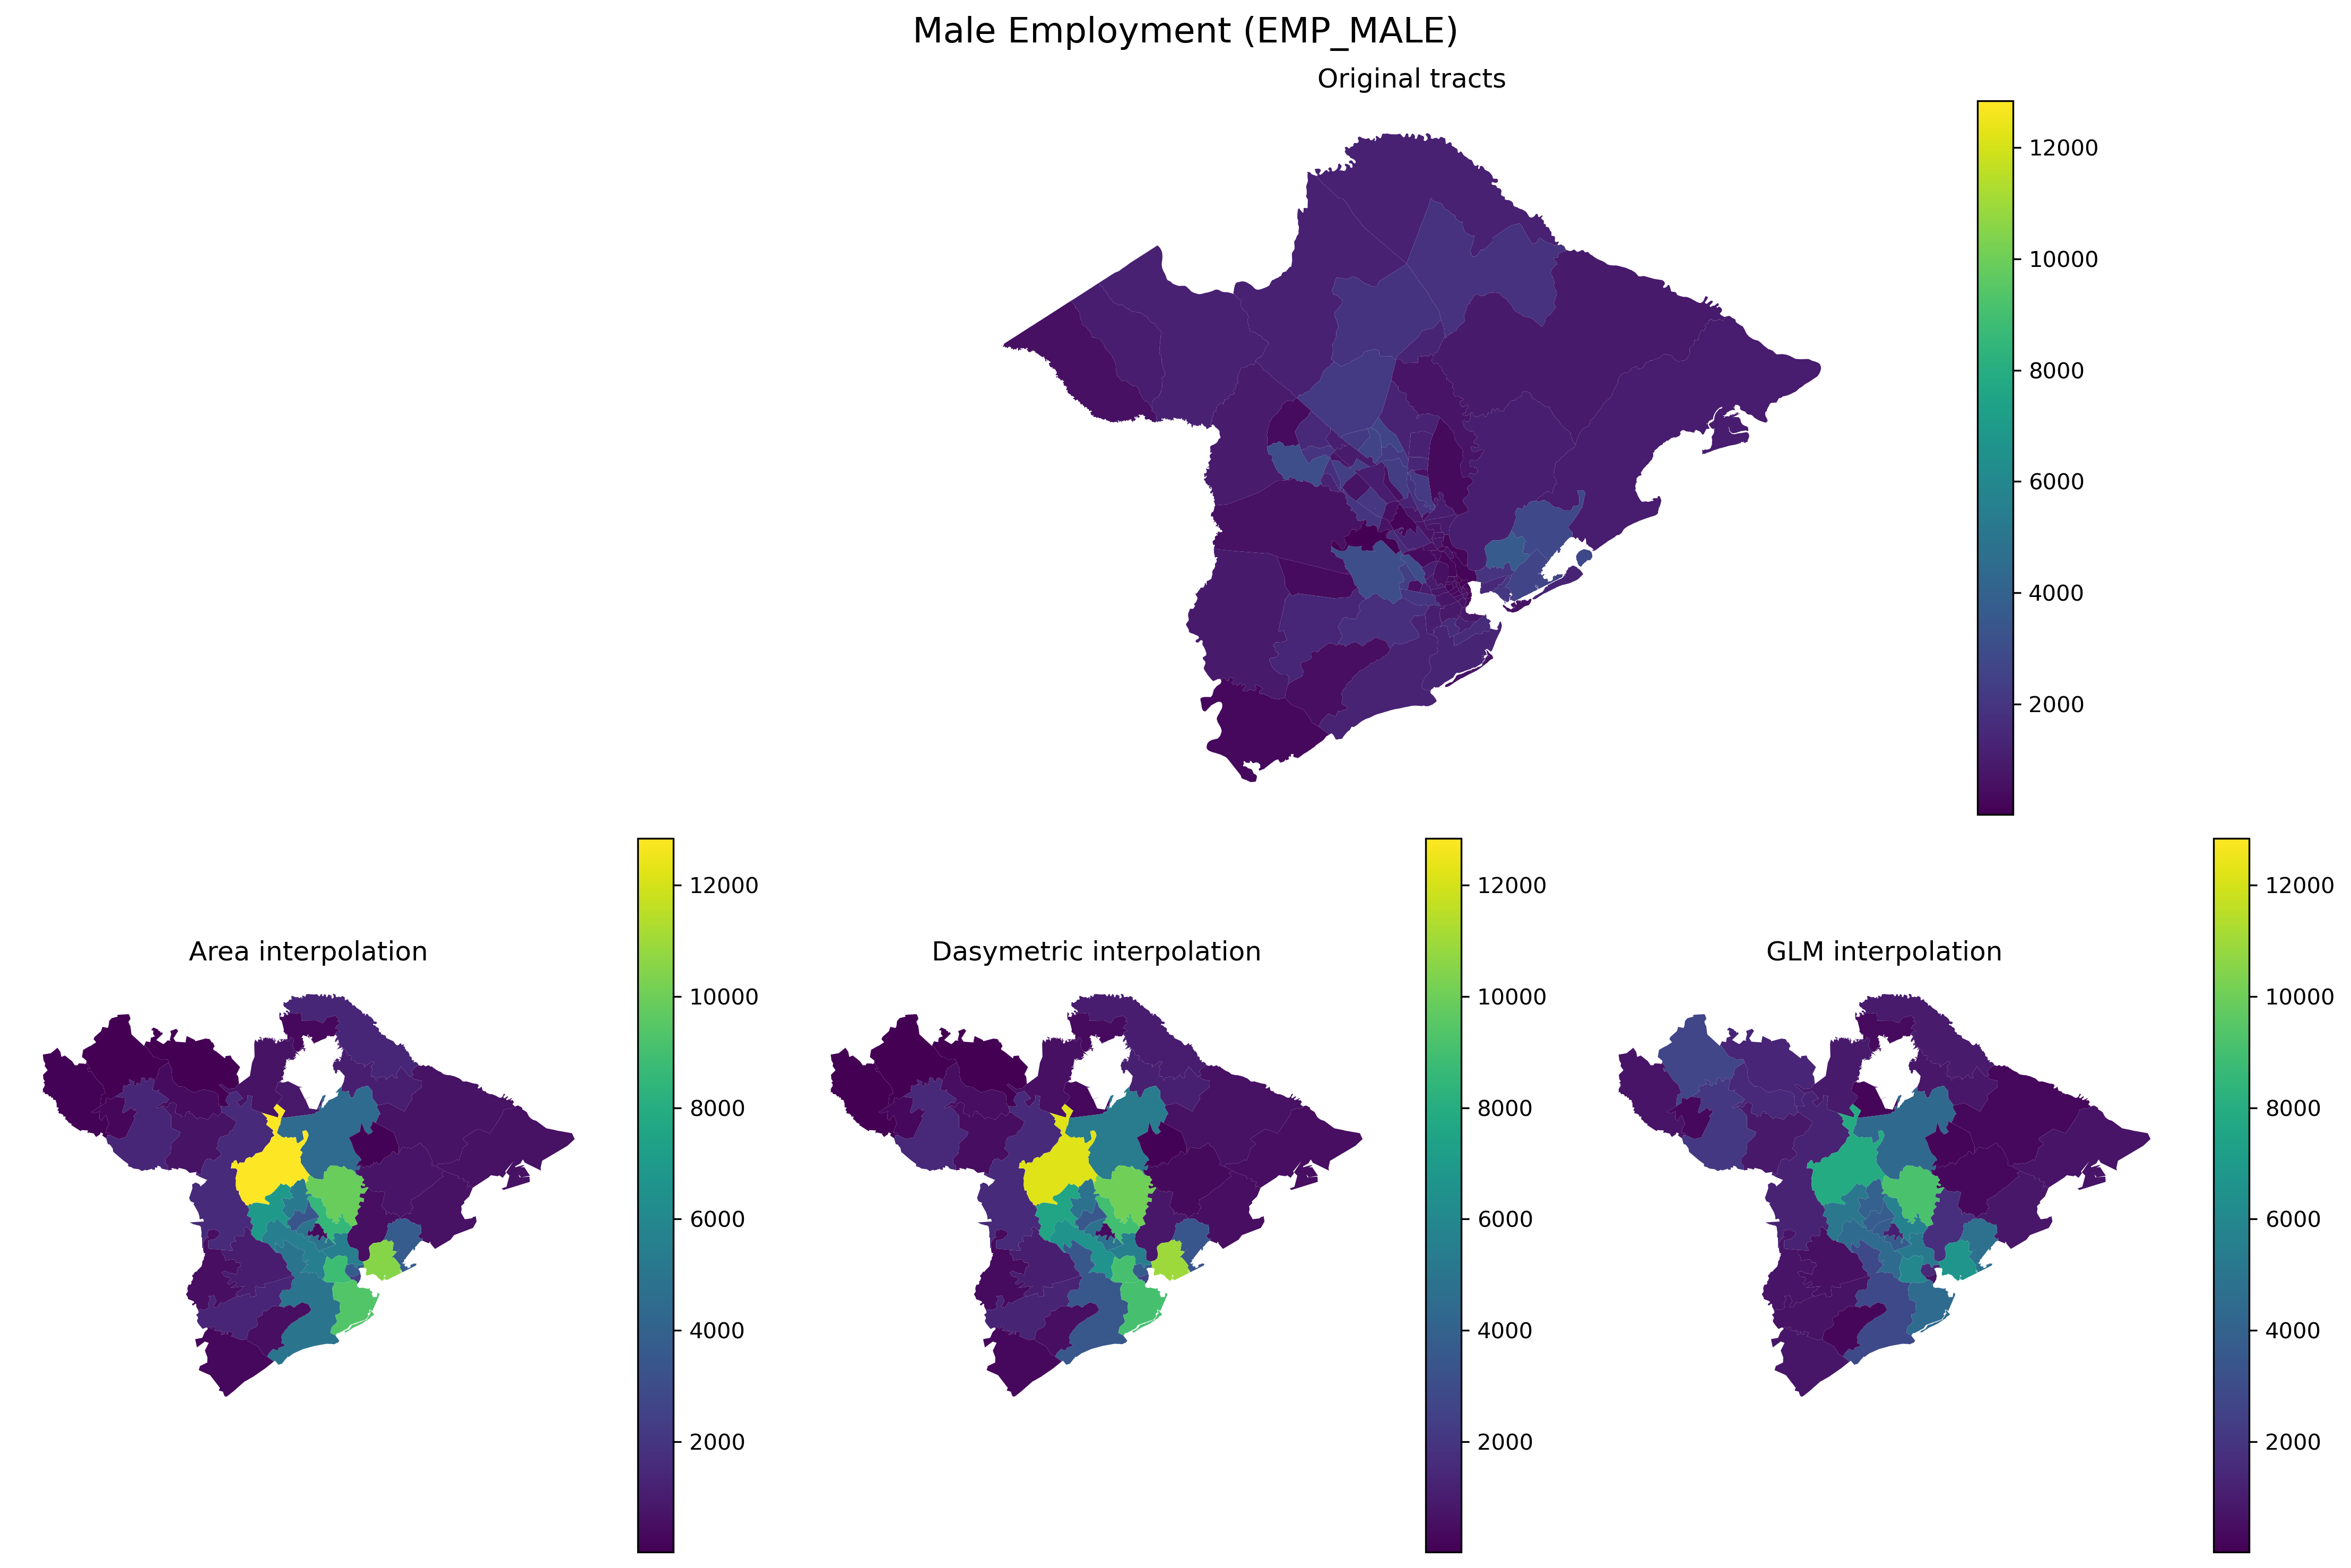
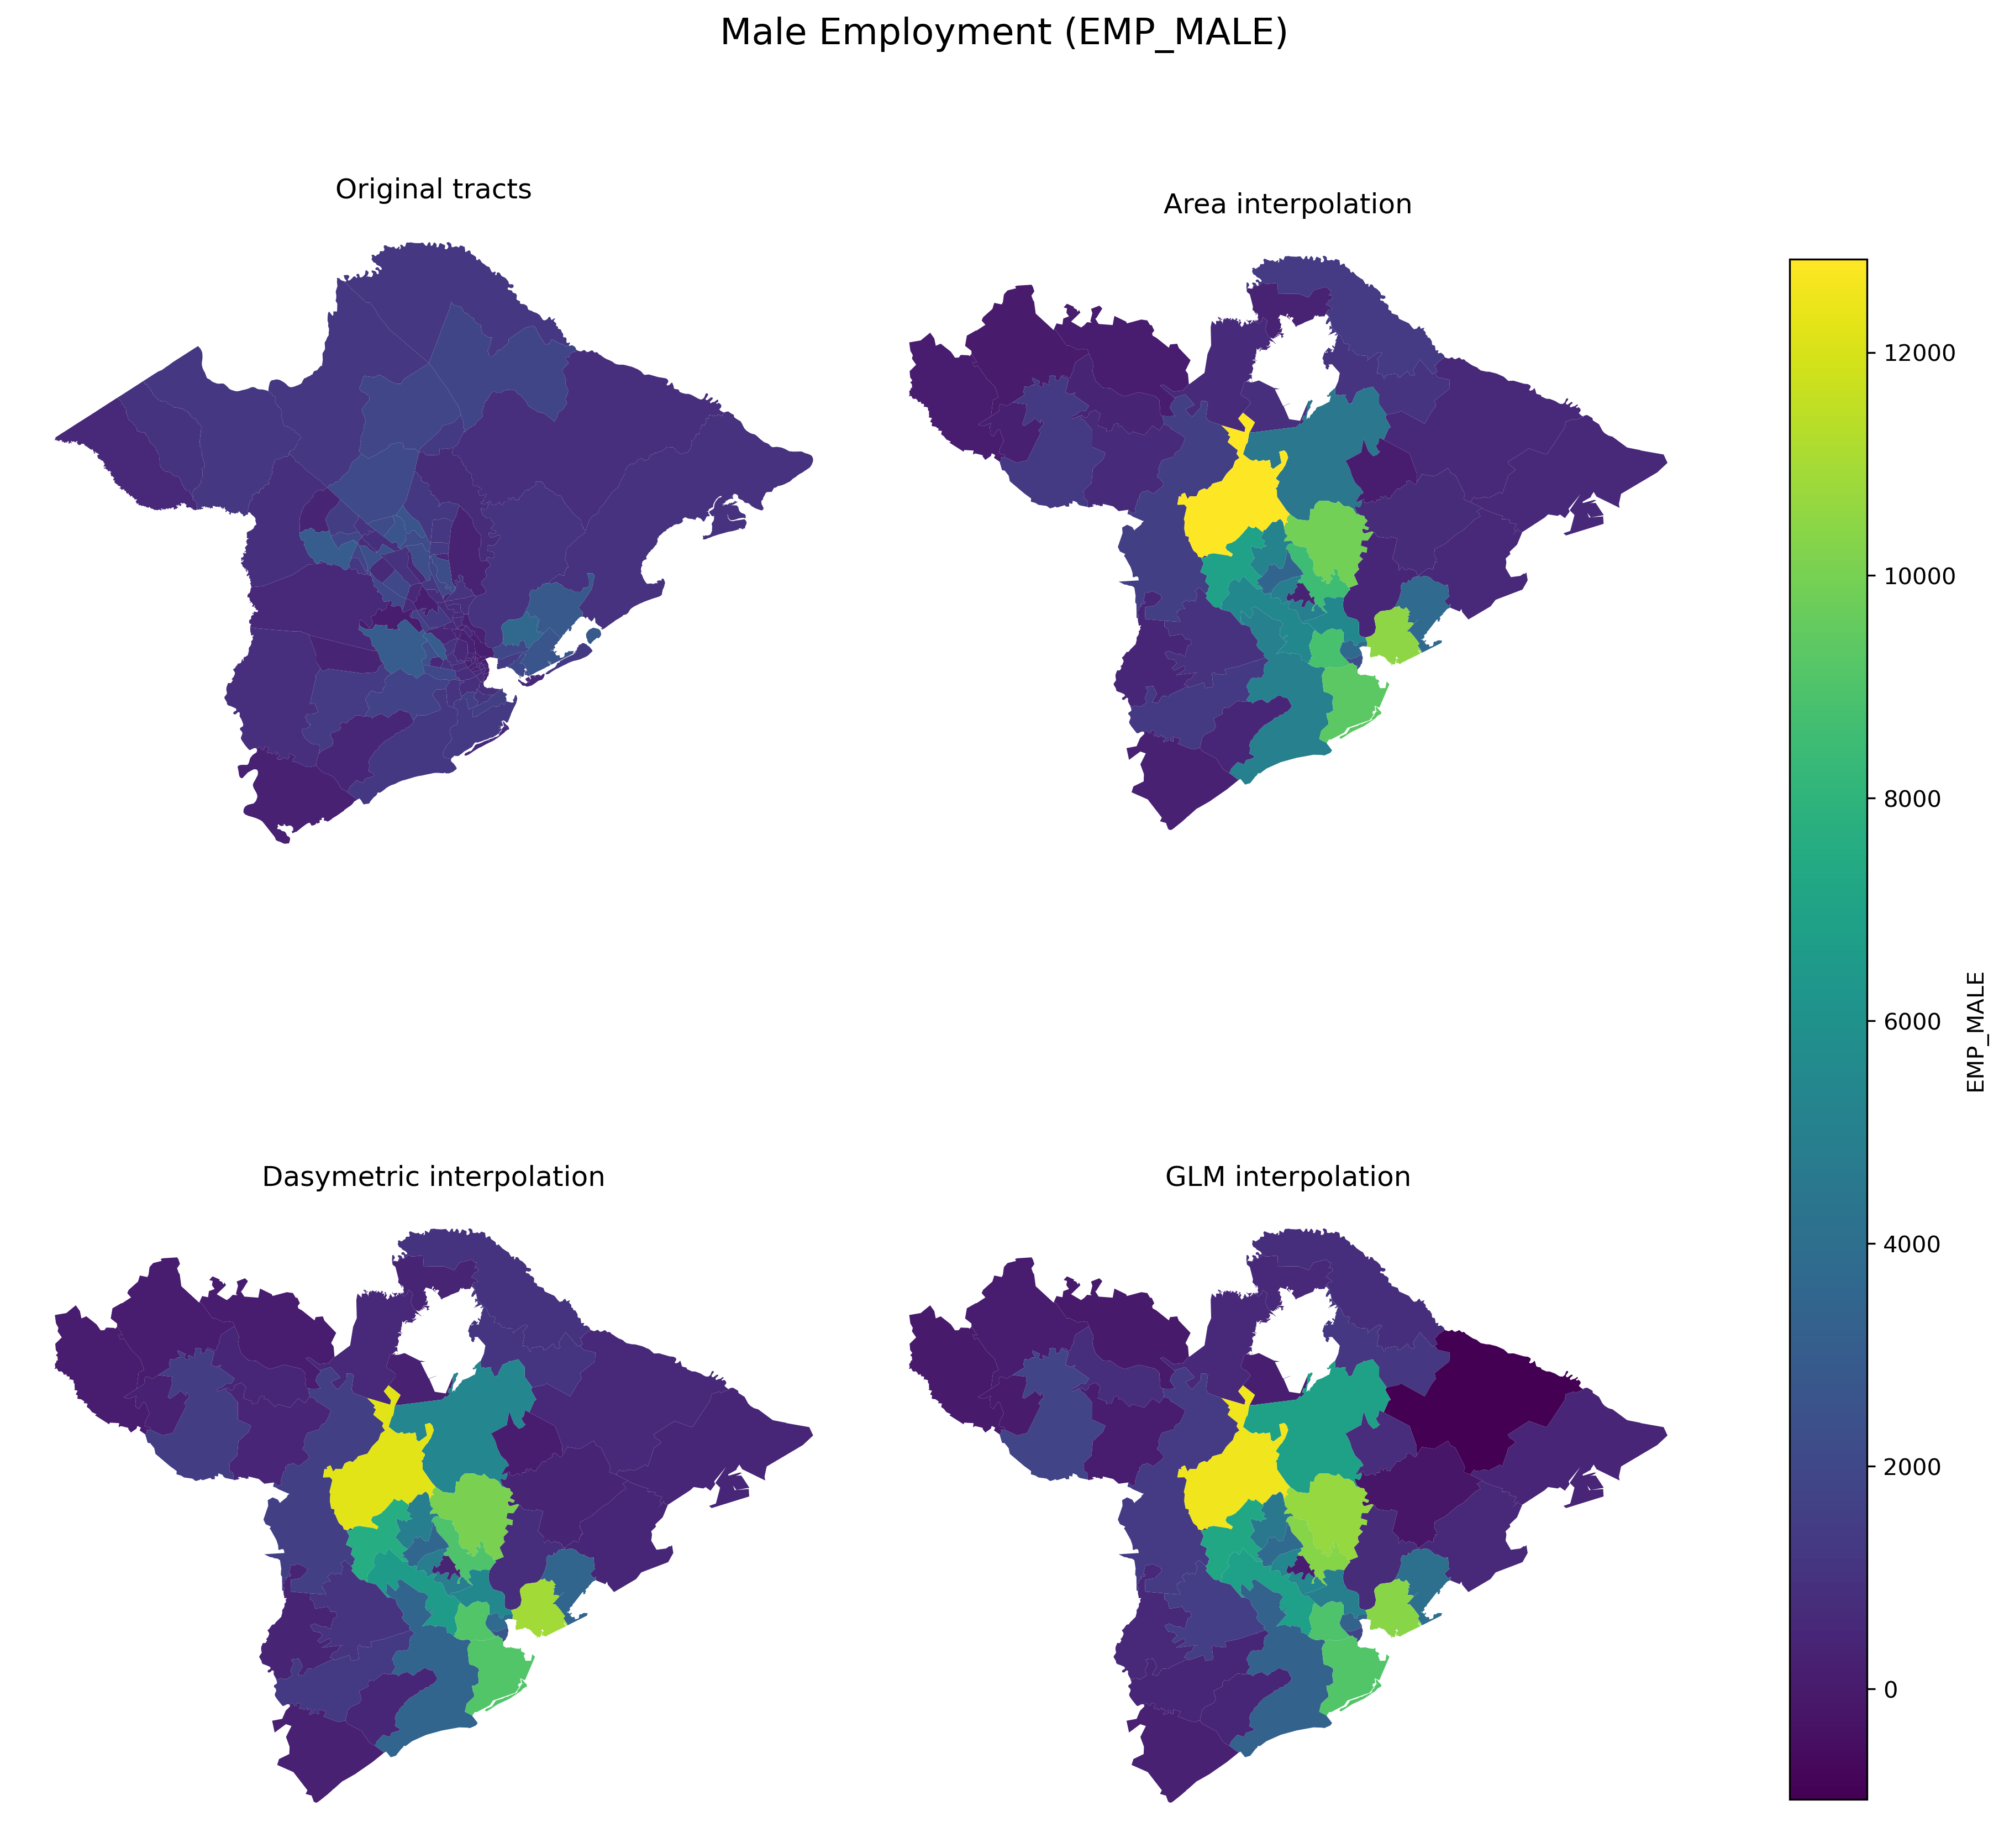
Merge pull request #282 from renanxcortes/fix-277
Refactor GLM and ensure pycnophylactic property

Pull request: Refactor GLM and ensure pycnophylactic property
Hello, everyone.

I have been working intensively on this over the past week and was able to refine both the framework and the estimates for the GLM approach mentioned in https://github.com/pysal/tobler/issues/277. This approach is directly connected to [Reibel (2007)](https://www.researchgate.net/publication/5153750_Areal_Interpolation_of_Population_Counts_Using_Pre-Classified_Land_Cover_Data), which is inspired by [Flowerdew and Green (1989, 1992)](https://link.springer.com/article/10.1007/BF01581481).

The current PR:

- Harmonizes the framework using `extract_raster_features` and spatial interpolations/overlays.
- Ensures the pycnophylactic property.
- Removes the `_fast_append_profile_in_gdf` function.
- Aligns the parameter name `pixel_values` with the dasymetric approach.

I also carried out several sanity checks, and everything appears to be working properly and performatic. As expected, the estimates from the GLM approach differ slightly from those of the dasymetric approach (which can be interpreted as a particular case of a GLM with uniform weights). Even so, the overall population totals remain very similar.

Below are the updated maps comparing all tobler approaches under the pycnophylactic property and the overall sums (I can update the paper graph if we merge this PR):

<img width="918" height="616" alt="image" src="https://github.com/user-attachments/assets/22c0e600-303f-4429-a721-5badd76ae8cb" />
[…]

diff --git a/tobler/model/glm.py b/tobler/model/glm.py
@@ -1,11 +1,14 @@
 """Model-based methods for areal interpolation."""
 
+import warnings
+
+import geopandas as gpd
 import numpy as np  # noqa: F401 -- needed for numpy's logarithm in the formula string
 import statsmodels.formula.api as smf
-from statsmodels.genmod.families import Gaussian, NegativeBinomial, Poisson
+from statsmodels.genmod.families import NegativeBinomial, Poisson
 
-from ..dasymetric import _fast_append_profile_in_gdf
-from ..util.util import _check_presence_of_crs
+from ..dasymetric import extract_raster_features
+from ..util.util import _check_presence_of_crs, _rename_type
 
 __all__ = ["glm"]
 
@@ -14,12 +17,14 @@ def glm(
     source_df=None,
     target_df=None,
     raster="nlcd_2011",
-    raster_codes=None,
-    variable=None,
+    pixel_values=None,
+    extensive_variable=None,
     formula=None,
     likelihood="poisson",
-    force_crs_match=True,
     return_model=False,
+    nodata=255,
+    n_jobs=-1,
+    force_crs_match=None,
 ):
     """Train a generalized linear model to predict polygon attributes
     based on the collection of pixel values they contain.
@@ -36,24 +41,32 @@ def glm(
         path to raster file that will be used to input data to the regression model.
         i.e. a coefficients refer to the relationship between pixel
         counts and population counts. Defaults to 2011 NLCD
-    raster_codes : list, required (default =[21, 22, 23, 24, 41, 42, 52])
+    pixel_values : list, required (default =[21, 22, 23, 24, 41, 42, 52])
         list of integers that represent different types of raster cells. If no formula
         is given, the model will be fit from a linear combination of the logged count
         of each cell type listed here. Defaults to [21, 22, 23, 24, 41, 42, 52] which
         are informative land type cells from the NLCD
-    variable : str, required
-        name of the variable (column) to be modeled from the `source_df`
+    extensive_variable : str, required
+        name of the variable (column) to be modeled from the `source_df`.
+        Currently, only one extensive variable is available.
     formula : str, optional
         patsy-style model formula that specifies the model. Raster codes should be
         prefixed with "Type_", e.g.
-        `"n_total_pop ~ -1 + np.log1p(Type_21) + np.log1p(Type_22)`
-    likelihood : str, {'poisson', 'gaussian', 'neg_binomial'} (default = "poisson")
+        `"n_total_pop ~ -1 + Type_21 + Type_22`
+    likelihood : str, {'poisson', 'neg_binomial'} (default = "poisson")
         the likelihood function used in the model
-    force_crs_match : bool
-        whether to coerce geodataframe and raster to the same CRS
     return model : bool
         whether to return the fitted model in addition to the interpolated geodataframe.
         If true, this will return (geodataframe, model)
+    nodata : int
+        value in raster that indicates null or missing values. Default is 255
+    n_jobs : int
+        [Optional. Default=-1] Number of processes to run in parallel to
+        generate the area allocation. If -1, this is set to the number of CPUs
+        available.
+    force_crs_match : None
+        whether to coerce geodataframe and raster to the same CRS
+        -- Scheduled for removal -- no longer used.
 
     Returns
     --------
@@ -61,40 +74,156 @@ def glm(
         a new geopandas dataframe with boundaries from `target_df` and modeled
         attribute data from the `source_df`. If `return_model` is true, the
         function will also return the fitted regression model for further diagnostics
+        The new geopandas will present a column named given by extensive_variable
     """
+
+    if force_crs_match is not None:
+        warnings.warn(
+            (
+                "The 'force_crs_match' is not longer used in 'glm()'"
+                "and will be removed in a future release."
+            ),
+            UserWarning,
+            stacklevel=2,
+        )
+
     source_df = source_df.copy()
     target_df = target_df.copy()
     _check_presence_of_crs(source_df)
-    liks = {"poisson": Poisson, "gaussian": Gaussian, "neg_binomial": NegativeBinomial}
+    liks = {"poisson": Poisson, "neg_binomial": NegativeBinomial}
 
     if likelihood not in liks:
         raise ValueError(f"likelihood must one of {liks.keys()}")
 
-    if not raster_codes:
-        raster_codes = [21, 22, 23, 24, 41, 42, 52]
-    raster_codes = ["Type_" + str(i) for i in raster_codes]
+    if not pixel_values:
+        pixel_values = [21, 22, 23, 24, 41, 42, 52]
+    pixel_values_str = ["Type_" + str(i) for i in pixel_values]
 
     if not formula:
-        formula = (
-            variable
-            + "~ -1 +"
-            + "+".join(["np.log1p(" + code + ")" for code in raster_codes])
+        formula = extensive_variable + "~ -1 +" + " + ".join(list(pixel_values_str))
+
+    #  create a vector mask from the raster data
+    # Pass collapse_values=False to obtain each pixel type
+    raster_mask = extract_raster_features(
+        source_df, raster, pixel_values, nodata, n_jobs, collapse_values=False
+    )
+
+    raster_mask = raster_mask.to_crs(source_df.crs)
+
+    raster_mask = raster_mask.copy()
+
+    source_df["source_id"] = source_df.index
+    target_df["target_id"] = target_df.index
+    raster_mask["mask_id"] = raster_mask.index
+
+    # Intersect the two layers (source + raster)
+    source_intersections = gpd.overlay(
+        raster_mask[["mask_id", "value", "geometry"]],
+        source_df[["source_id", "geometry"]],
+        how="intersection",
+    )
+
+    # Since each intersection is only comprised of a single value,
+    # The logic will be adjusted to the area (instead of counts)
+    # of each pixel type
+
+    # Area of intersected pieces of each category fall in each source polygon
+
+    source_intersections["area"] = source_intersections.geometry.area
+
+    area_by_source_id_values = (
+        source_intersections.groupby(["source_id", "value"])["area"]
+        .sum()
+        .unstack(fill_value=0)
+        .reset_index()
+    )
+
+    source_result = source_df.merge(
+        area_by_source_id_values, on="source_id", how="left"
+    ).fillna(0)
+    source_result = _rename_type(source_result)
+    results_regression = smf.glm(
+        formula, data=source_result, family=liks[likelihood]()
+    ).fit()
+
+    # Extract the log from predict to get the weights sums
+    # "raw" is because this prediction is only generated through the regression
+    # (that is, without enforcing pycnophylactic property)
+    source_result["pred_variable_on_source_id_raw"] = np.log(
+        results_regression.predict(source_result.fillna(0))
+    )
+
+    # Append source predictions and original
+    # variable for the pycnophylactic property step
+    source_intersections_2 = source_intersections.merge(
+        source_result[
+            ["source_id", extensive_variable, "pred_variable_on_source_id_raw"]
+        ],
+        on="source_id",
+        how="left",
+    ).fillna(0)
+
+    # Match each pixel to its corresponding weight
+    coefs = results_regression.params
+    type_coefs = coefs[coefs.index.str.match(r"^Type_\d+$")]
+    mapping = {  # build mapping: 21 -> coef(Type_21), 22 -> coef(Type_22), ...
+        int(name.split("_", 1)[1]): coef for name, coef in type_coefs.items()
+    }
+
+    # add coefficient as a new column
+    source_intersections_2["type_coef"] = source_intersections_2["value"].map(mapping)
+
+    # Ensure pycnophylactic property
+    source_intersections_2["pred_variable_on_pixel"] = source_intersections_2[
+        "type_coef"
+    ] * (
+        source_intersections_2[extensive_variable]
+        / source_intersections_2["pred_variable_on_source_id_raw"]
+    )
+
+    # Predictions should be adjusted by area instead of pixels (appends "_wa")
+    # "wa" stands for weighted area
+    source_intersections_2["area"] = source_intersections_2.geometry.area
+    source_intersections_2["pred_variable_on_pixel_wa"] = (
+        source_intersections_2["pred_variable_on_pixel"]
+        * source_intersections_2["area"]
+    )
+
+    # Intersect the two layers (target + raster)
+    target_intersections = (
+        gpd.overlay(
+            raster_mask[["mask_id", "geometry"]],
+            target_df[["target_id", "geometry"]],
+            how="intersection",
         )
+        .dissolve("mask_id")
+        .reset_index()
+    )  # Dissolve here is only to get unique mask_ids
 
-    profiled_df = _fast_append_profile_in_gdf(
-        source_df[[source_df.geometry.name, variable]], raster, force_crs_match
+    # Recover pixel estimated population for each mask id within every target id
+    # Use the weighted variable!
+    target_intersections_2 = target_intersections.merge(
+        source_intersections_2[["mask_id", "pred_variable_on_pixel_wa"]],
+        on="mask_id",
+        how="inner",
     )
 
-    results = smf.glm(formula, data=profiled_df, family=liks[likelihood]()).fit()
+    # Sum the weights for each target polygon to get the
+    # estimated population with pycnophylactic property
+    # Use the weighted variable!
+    sum_by_target = target_intersections_2.groupby("target_id", as_index=False)[
+        "pred_variable_on_pixel_wa"
+    ].sum()
 
-    out = target_df[[target_df.geometry.name]]
-    temp = _fast_append_profile_in_gdf(
-        out[[out.geometry.name]], raster, force_crs_match
+    # Append these estimates into the original target geopandas
+    interpolated = target_df.merge(sum_by_target, on="target_id", how="inner").rename(
+        columns={"pred_variable_on_pixel_wa": extensive_variable}
     )
 
-    out[variable] = results.predict(temp.drop(columns=[temp.geometry.name]).fillna(0))
+    # Return only relevant columns
+    interpolated = interpolated[["geometry", extensive_variable]]
 
     if return_model:
-        return out, results
+        return interpolated, results_regression
 
-    return out
+    return interpolated

diff --git a/tobler/dasymetric/raster_tools.py b/tobler/dasymetric/raster_tools.py
@@ -2,19 +2,15 @@
 
 import ast
 import multiprocessing
-import warnings
 
 import geopandas as gpd
 import numpy as np
 import pandas as pd
 import rasterio as rio
-import rasterstats as rs
 from joblib import Parallel, delayed
 from rasterio import features
 from rasterio.mask import mask
 from shapely.geometry import shape
-
-from ..util.util import _check_presence_of_crs
 
 __all__ = ["extract_raster_features"]
 
@@ -32,50 +28,6 @@ def _parse_geom(geom_str):
 
 def _apply_parser(df):
     return df.apply(_parse_geom)
-
-
-def _fast_append_profile_in_gdf(geodataframe, raster_path, force_crs_match=True):
-    """Append categorical zonal statistics (counts by pixel type)
-    as columns to an input geodataframe.
-
-    Parameters
-    ----------
-    geodataframe : geopandas.GeoDataFrame
-        geodataframe that has overlay with the raster. If some polygon do
-        not overlay the raster, consider a preprocessing step using the function
-        subset_gdf_polygons_from_raster.
-    raster_path : str
-        path to the raster image.
-    force_crs_match : bool, Default is True.
-        Whether the Coordinate Reference System (CRS) of the polygon will be reprojected
-        to the CRS of the raster file. It is recommended to let this argument as True.
-
-    Notes
-    -----
-    The generated geodataframe will input the value 0 for each Type that
-    is not present in the raster for each polygon.
-    """
-
-    _check_presence_of_crs(geodataframe)
-    if force_crs_match:
-        with rio.open(raster_path) as raster:
-            geodataframe = geodataframe.to_crs(crs=raster.crs.data)
-    else:
-        warnings.warn(
-            "The GeoDataFrame is not being reprojected. "
-            "The clipping might be being performing on "
-            "unmatching polygon to the raster.",
-            UserWarning,
-            stacklevel=2,
-        )
-
-    zonal_gjson = rs.zonal_stats(
-        geodataframe, raster_path, prefix="Type_", geojson_out=True, categorical=True
-    )
-
-    zonal_ppt_gdf = gpd.GeoDataFrame.from_features(zonal_gjson)
-
-    return zonal_ppt_gdf
 
 
 def extract_raster_features(

diff --git a/tobler/tests/test_model.py b/tobler/tests/test_model.py
@@ -1,8 +1,6 @@
 """test interpolation functions."""
 
-import pytest
 import rasterio
-from rasterstats.io import NodataWarning
 
 from tobler.model import glm
 
@@ -10,14 +8,10 @@ from tobler.model import glm
 def test_glm_poisson(datasets):
     with rasterio.Env(AWS_NO_SIGN_REQUEST="YES"):
         sac1, sac2 = datasets
-        with pytest.warns(
-            NodataWarning,
-            match="Setting nodata to -999; specify nodata explicitly",
-        ):
-            glm_poisson = glm(
-                source_df=sac2,
-                target_df=sac1,
-                variable="POP2001",
-                raster="s3://spatial-ucr/nlcd/landcover/nlcd_landcover_2011.tif",
-            )
+        glm_poisson = glm(
+            source_df=sac2,
+            target_df=sac1,
+            extensive_variable="POP2001",
+            raster="s3://spatial-ucr/nlcd/landcover/nlcd_landcover_2011.tif",
+        )
     assert glm_poisson.POP2001.sum() > 1469000

diff --git a/tobler/util/util.py b/tobler/util/util.py
@@ -270,3 +270,18 @@ def _to_hex(source, resolution=6, return_geoms=True):
     )
 
     return hexs
+
+
+# Functions that appends a "Type_" suffix on any column
+# that has a number as variable name
+def _rename_type(df):
+    res = df.rename(
+        columns=lambda col: (
+            f"Type_{int(pandas.to_numeric(col))}"
+            if not isinstance(col, bool)
+            and pandas.notna(pandas.to_numeric(col, errors="coerce"))
+            and float(pandas.to_numeric(col)).is_integer()
+            else col
+        )
+    )
+    return res

diff --git a/tobler/dasymetric/__init__.py b/tobler/dasymetric/__init__.py
@@ -1,5 +1,5 @@
 from .masked_area_interpolate import masked_area_interpolate, masked_dot_density
-from .raster_tools import _fast_append_profile_in_gdf, extract_raster_features
+from .raster_tools import extract_raster_features
 
 __all__ = [
     "masked_area_interpolate",